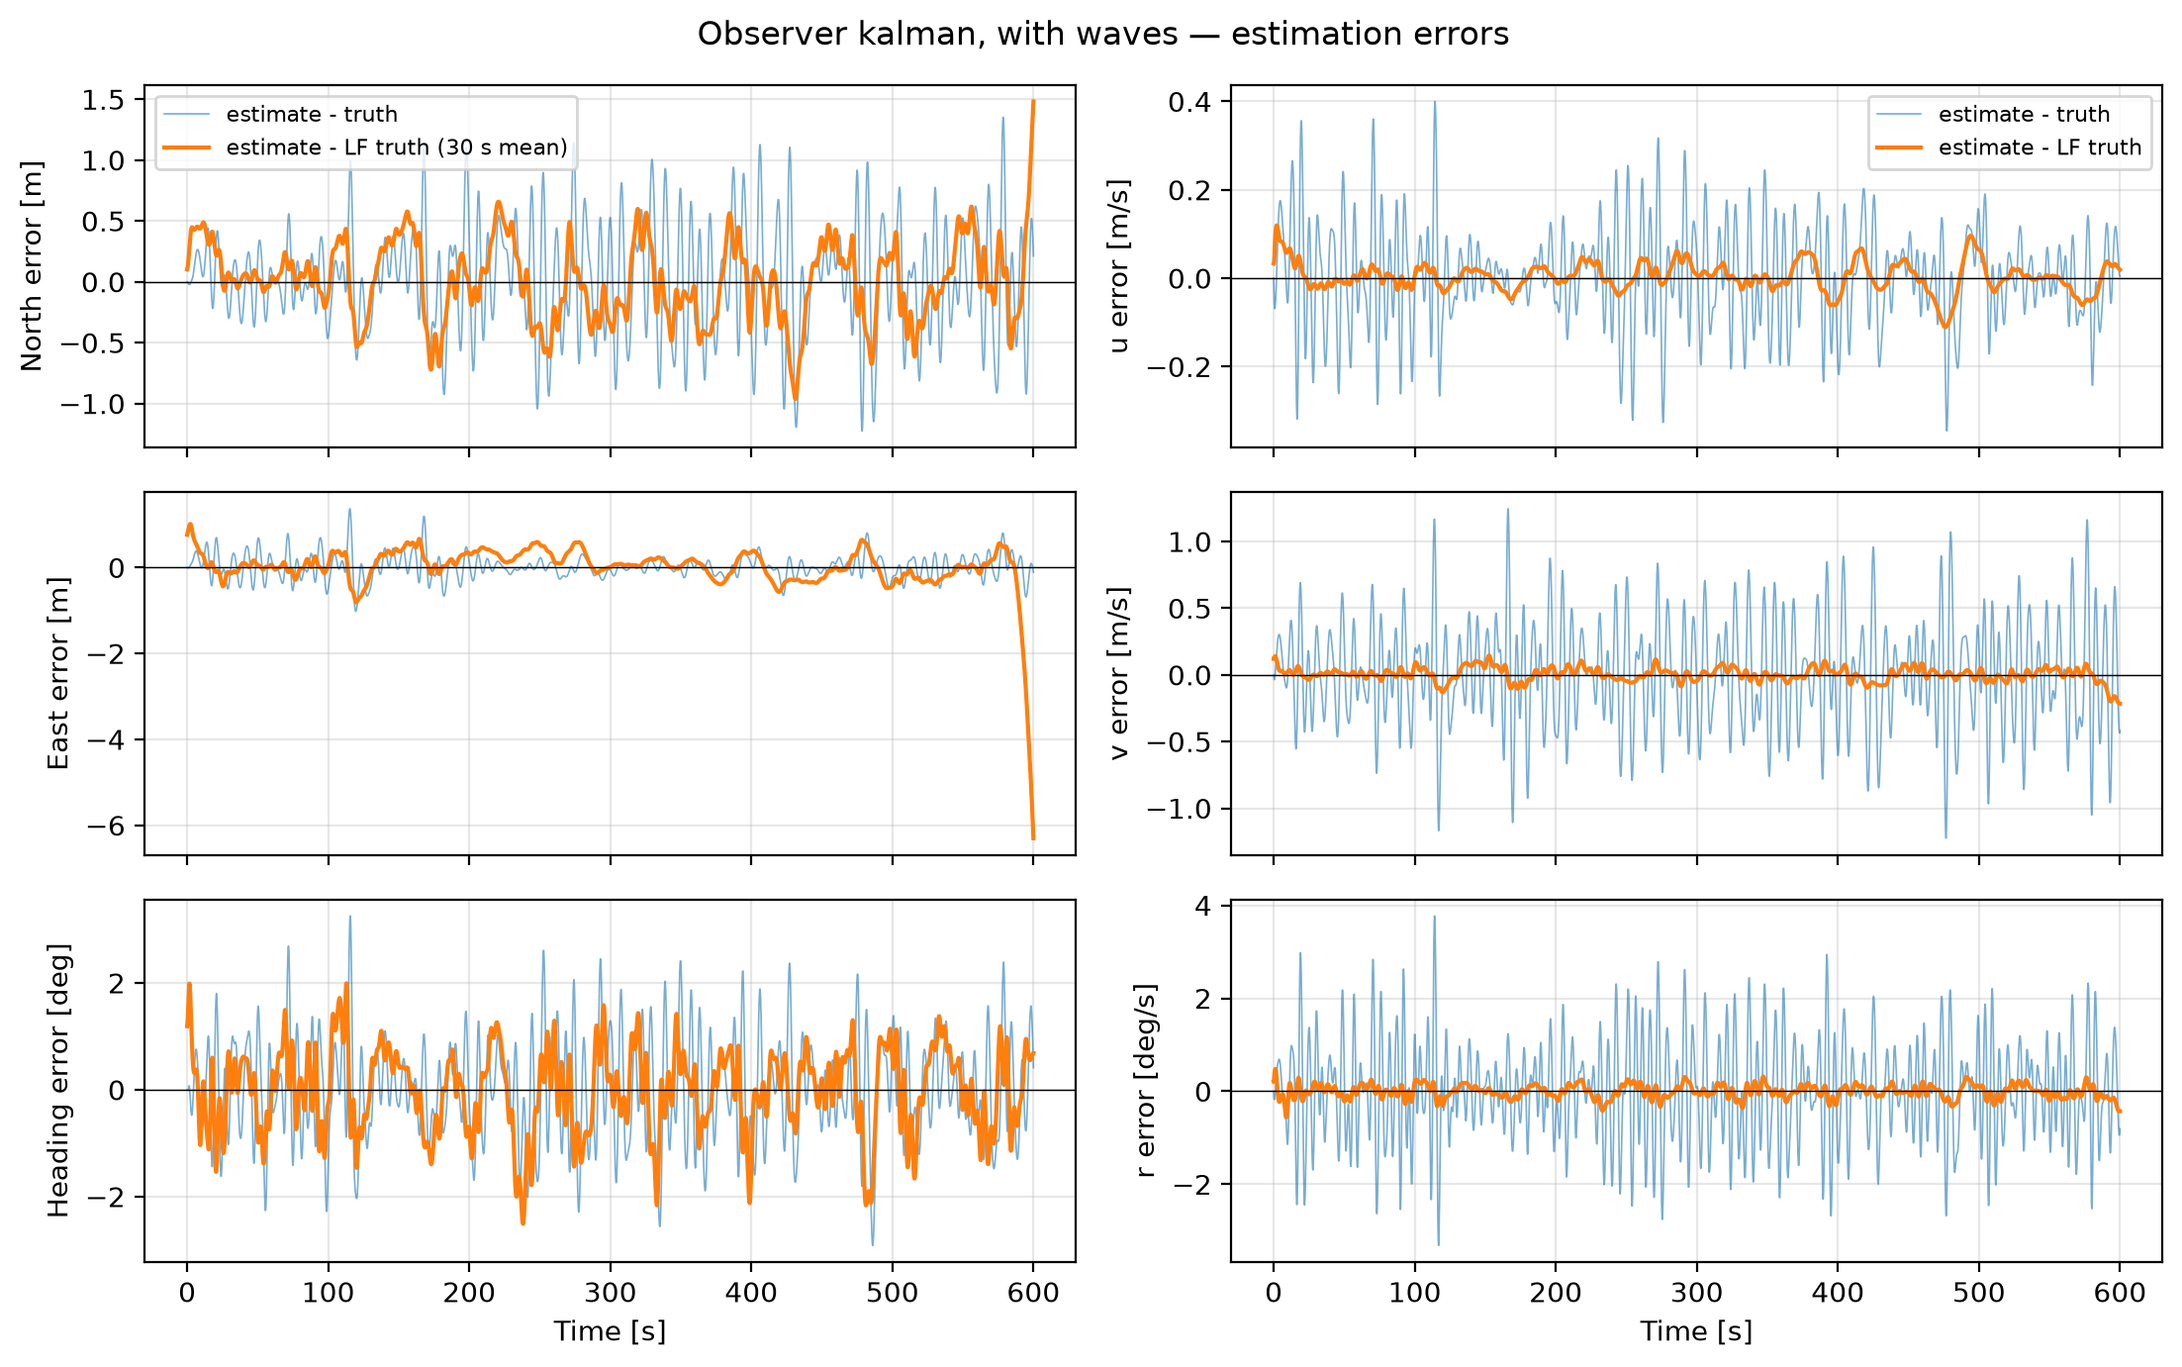
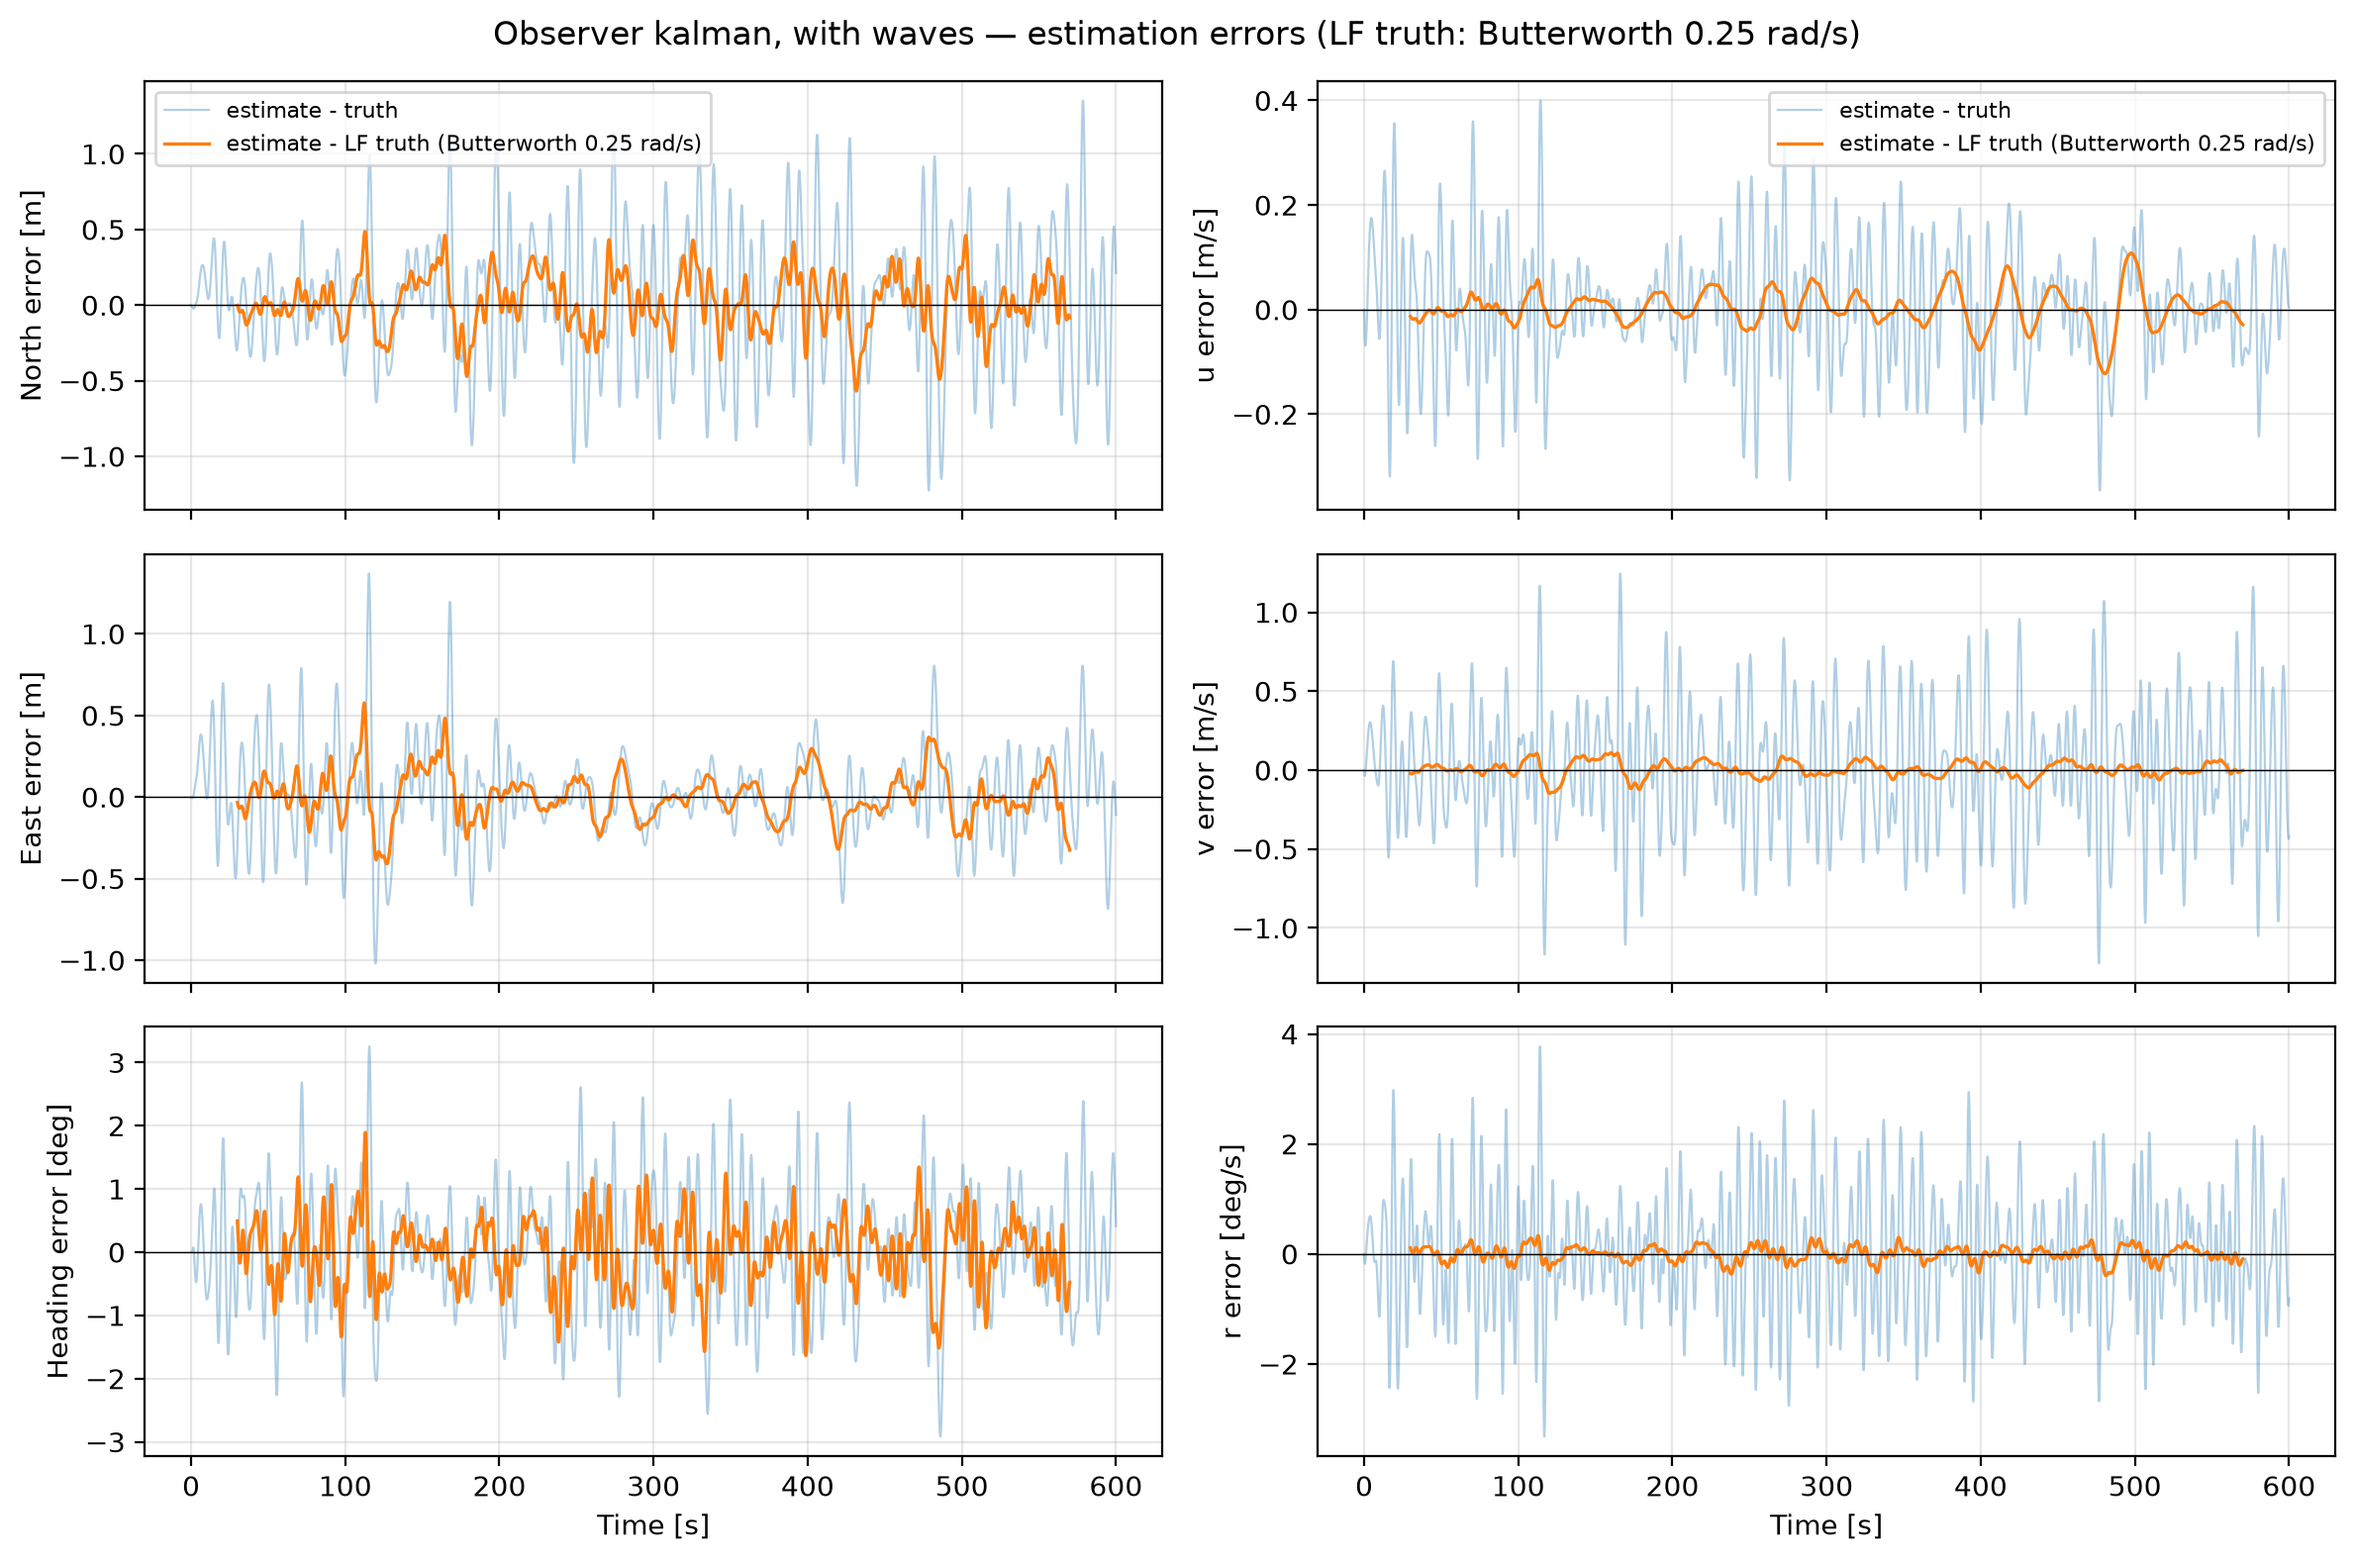
Butterworth LF reference for observer metrics and error plots in Sim 4 and 6; Sim 6 evaluated over same intervals as Sim 4

Changed region(s): [[0.0, 0.0, 1.0, 0.9964]]

diff --git a/run_case_part_2.py b/run_case_part_2.py
@@ -452,7 +452,9 @@ def sim4():
                                  observer_type=kind)
             logs = run(cfg, np.zeros(6), environment(**env_kw), controller=fixed)
             plot_observer(logs).suptitle(f"Observer {kind}, {label}")
-            plot_observer_error(logs).suptitle(f"Observer {kind}, {label} — estimation errors")
+            plot_observer_error_butter(
+                logs, f"Observer {kind}, {label} — estimation errors "
+                      f"(LF truth: Butterworth 0.25 rad/s)")
             out[(kind, label)] = logs
     # Convergence: start the estimate away from the truth (the engine resets it
     # ON the truth), then watch the error decay.  Quote the convergence time.
@@ -465,8 +467,10 @@ def sim4():
         current, wind, waves = environment()
         logs = sim.run(np.zeros(6), current=current, wind=wind, waves=waves)
         plot_observer(logs).suptitle(f"Observer {kind}, offset start — convergence")
-        plot_observer_error(logs).suptitle(
-            f"Observer {kind}, offset start — estimation errors")
+        # edge_start=0: the convergence from the initial offset must be visible
+        plot_observer_error_butter(
+            logs, f"Observer {kind}, offset start — estimation errors "
+                  f"(LF truth: Butterworth 0.25 rad/s)", edge_start=0.0)
         out[(kind, "offset start")] = logs
     # Stage (c) is the only part that needs the choice you make from the
     # evidence above, so it is skipped until you have made it.  Stages (a) and
@@ -485,8 +489,13 @@ def sim4():
         cfg = Part2SimConfig(dt=DT, T=600.0, use_observer=use_obs,
                              observer_type=selected_observer())
         logs = run(cfg, np.zeros(6), environment())
-        standard_plots(logs, setpoints=True, observer=use_obs)
+        standard_plots(logs, setpoints=True)
         plt.gcf().suptitle(f"Closed loop — {label}")
+        if use_obs:
+            plot_observer(logs).suptitle(f"Closed loop — {label}")
+            plot_observer_error_butter(
+                logs, f"Closed loop — {label}, estimation errors "
+                      f"(LF truth: Butterworth 0.25 rad/s)")
         out[("closed loop", label)] = logs
         plot_yaw_diagnostics(logs, f"Sim 4c — yaw controller, {label}")
     save_figures()
@@ -546,31 +555,51 @@ def _wrap(a):
     return np.arctan2(np.sin(a), np.cos(a))
 
 
-def print_sim6_metrics(label, logs, t0, t1):
-    """Station-keeping, estimation and actuator metrics over [t0, t1]."""
-    dt = logs.t[1] - logs.t[0]
-    m = (logs.t >= t0) & (logs.t <= t1)
-    # observer metrics: skip the last 15 s (edge effect of the 30 s mean)
-    mo = m & (logs.t <= logs.t[-1] - 15.0)
+def _butter(x, t, cutoff=0.25, band=None):
+    """4th-order zero-phase Butterworth filter, as in simulation4_metrics_direct.py."""
+    from scipy.signal import butter, sosfiltfilt
+    nyquist = np.pi / float(np.median(np.diff(t)))
+    if band is None:
+        sos = butter(4, cutoff / nyquist, btype="lowpass", output="sos")
+    else:
+        sos = butter(4, np.array(band) / nyquist, btype="bandpass", output="sos")
+    return sosfiltfilt(sos, x, axis=0)
+
+
+def print_sim6_metrics(label, logs, t0, t1, edge=30.0):
+    """Station-keeping, estimation and actuator metrics over [t0, t1].
+    LF truth: 0.25 rad/s Butterworth low-pass of the true motion, identical to
+    simulation4_metrics_direct.py. Estimation metrics exclude `edge` seconds
+    at each end of the window, as in Simulation 4 (0-600 s -> 30-570 s)."""
+    t = logs.t
+    dt = t[1] - t[0]
+    m = (t >= t0) & (t <= t1)
+    mo = m & (t >= t0 + edge) & (t <= t1 - edge)
 
     # station keeping (true state vs set-point)
     pos = np.hypot(logs.eta[m, 0] - logs.cmd[m, 0], logs.eta[m, 1] - logs.cmd[m, 1])
     psi = np.degrees(np.abs(_wrap(logs.eta[m, 5] - logs.cmd[m, 5])))
 
-    # low-frequency truth = 30 s moving average of the true pose
-    k = np.ones(int(round(30.0 / dt)))
-    k /= k.size
-    lf_N = np.convolve(logs.eta[:, 0], k, "same")
-    lf_E = np.convolve(logs.eta[:, 1], k, "same")
-    lf_P = _wrap(np.convolve(np.unwrap(logs.eta[:, 5]), k, "same"))
+    # LF truth (Butterworth) for pose and velocity
+    eta = logs.eta[:, [0, 1, 5]].copy()
+    eta[:, 2] = np.unwrap(eta[:, 2])
+    nu = logs.nu[:, [0, 1, 5]]
+    lf_eta = _butter(eta, t)
+    lf_nu = _butter(nu, t)
 
-    eN = logs.eta_est[mo, 0] - lf_N[mo]
-    eE = logs.eta_est[mo, 1] - lf_E[mo]
-    eP = np.degrees(_wrap(logs.eta_est[mo, 5] - lf_P[mo]))
-    wN = logs.eta_measured[mo, 0] - lf_N[mo]
-    wE = logs.eta_measured[mo, 1] - lf_E[mo]
-    wP = np.degrees(_wrap(logs.eta_measured[mo, 5] - lf_P[mo]))
-    e_nu = logs.nu_est[mo][:, [0, 1, 5]] - logs.nu[mo][:, [0, 1, 5]]
+    est = logs.eta_est[:, [0, 1, 5]].copy()
+    est[:, 2] = np.unwrap(est[:, 2])
+    meas = logs.eta_measured[:, [0, 1, 5]].copy()
+    meas[:, 2] = np.unwrap(meas[:, 2])
+
+    e_pose = est - lf_eta
+    e_pose[:, 2] = _wrap(e_pose[:, 2])
+    e_nu = logs.nu_est[:, [0, 1, 5]] - lf_nu
+    e_nu_tot = logs.nu_est[:, [0, 1, 5]] - nu
+
+    # wave-band attenuation of the estimate relative to the measurement [dB]
+    est_wf = _butter(est, t, band=(0.45, 1.2))
+    meas_wf = _butter(meas, t, band=(0.45, 1.2))
 
     # actuators
     u = logs.u[m]
@@ -579,18 +608,73 @@ def print_sim6_metrics(label, logs, t0, t1):
     res = (logs.tau_d - logs.tau_thr)[m][:, [0, 1, 5]]
 
     rms = lambda x: float(np.sqrt(np.mean(np.square(x))))
-    print(f"\n=== {label} ===")
+    att = [20 * np.log10(max(rms(est_wf[mo, i]), 1e-12) / max(rms(meas_wf[mo, i]), 1e-12))
+           for i in range(3)]
+    print(f"\n=== {label} (estimation metrics over t = {t[mo][0]:.0f}-{t[mo][-1]:.0f} s) ===")
     print(f"  position error   max {pos.max():5.2f} m   rms {rms(pos):5.2f} m")
     print(f"  heading error    max {psi.max():5.2f} deg rms {rms(psi):5.2f} deg")
-    print(f"  LF estimate err  rms N {rms(eN):.2f} m, E {rms(eE):.2f} m, psi {rms(eP):.2f} deg")
-    print(f"  WF ratio (est/meas std, lower = better filtering)  "
-          f"N {np.std(eN)/np.std(wN):.2f}, E {np.std(eE)/np.std(wE):.2f}, psi {np.std(eP)/np.std(wP):.2f}")
-    print(f"  velocity err rms u {rms(e_nu[:, 0]):.3f} m/s, v {rms(e_nu[:, 1]):.3f} m/s, "
-          f"r {np.degrees(rms(e_nu[:, 2])):.3f} deg/s")
+    print(f"  LF estimate err  rms N {rms(e_pose[mo, 0]):.3f} m, E {rms(e_pose[mo, 1]):.3f} m, "
+          f"psi {np.degrees(rms(e_pose[mo, 2])):.3f} deg")
+    print(f"  velocity err rms (vs LF truth)    u {rms(e_nu[mo, 0]):.3f} m/s, "
+          f"v {rms(e_nu[mo, 1]):.3f} m/s, r {np.degrees(rms(e_nu[mo, 2])):.3f} deg/s")
+    print(f"  velocity err rms (vs total truth) u {rms(e_nu_tot[mo, 0]):.3f} m/s, "
+          f"v {rms(e_nu_tot[mo, 1]):.3f} m/s, r {np.degrees(rms(e_nu_tot[mo, 2])):.3f} deg/s")
+    print(f"  wave attenuation [dB] N {att[0]:.1f}, E {att[1]:.1f}, psi {att[2]:.1f}")
     print(f"  thrust utilisation mean {UT.mean():5.1f} %   max {UT.max():5.1f} %")
     print(f"  thrust rate rms [kN/s]  T {rms(du[:, 0])/1e3:.2f}, A1 {rms(du[:, 1])/1e3:.2f}, A2 {rms(du[:, 2])/1e3:.2f}")
     print(f"  residual rms     Fx {rms(res[:, 0])/1e3:.2f} kN, Fy {rms(res[:, 1])/1e3:.2f} kN, "
           f"Mz {rms(res[:, 2])/1e3:.2f} kNm")
+
+def plot_observer_error_butter(logs, title, edge=30.0, edge_start=None):
+    """Estimation errors against the total truth and against the LF truth
+    (4th-order zero-phase Butterworth, 0.25 rad/s), the same LF reference as
+    the tabulated metrics. The LF error is shown without the last `edge`
+    seconds and, unless `edge_start` is given, without the first `edge`
+    seconds, where the filter has edge effects."""
+    t = logs.t
+    eta = logs.eta[:, [0, 1, 5]].copy()
+    eta[:, 2] = np.unwrap(eta[:, 2])
+    est = logs.eta_est[:, [0, 1, 5]].copy()
+    est[:, 2] = np.unwrap(est[:, 2])
+    nu = logs.nu[:, [0, 1, 5]]
+    nu_est = logs.nu_est[:, [0, 1, 5]]
+    lf_eta = _butter(eta, t)
+    lf_nu = _butter(nu, t)
+
+    e_tot = est - eta
+    e_tot[:, 2] = _wrap(e_tot[:, 2])
+    e_lf = est - lf_eta
+    e_lf[:, 2] = _wrap(e_lf[:, 2])
+    v_tot = nu_est - nu
+    v_lf = nu_est - lf_nu
+    t_first = edge if edge_start is None else edge_start
+    m = (t >= t_first) & (t <= t[-1] - edge)
+
+    fig, ax = plt.subplots(3, 2, figsize=(12, 8), sharex=True)
+    pos_labels = ["North error [m]", "East error [m]", "Heading error [deg]"]
+    vel_labels = ["u error [m/s]", "v error [m/s]", "r error [deg/s]"]
+    for i in range(3):
+        sc = np.degrees if i == 2 else (lambda x: x)
+        ax[i, 0].plot(t, sc(e_tot[:, i]), color="tab:blue", alpha=0.35, lw=0.8,
+                      label="estimate - truth")
+        ax[i, 0].plot(t[m], sc(e_lf[m, i]), color="tab:orange", lw=1.2,
+                      label="estimate - LF truth (Butterworth 0.25 rad/s)")
+        ax[i, 0].set_ylabel(pos_labels[i])
+        ax[i, 1].plot(t, sc(v_tot[:, i]), color="tab:blue", alpha=0.35, lw=0.8,
+                      label="estimate - truth")
+        ax[i, 1].plot(t[m], sc(v_lf[m, i]), color="tab:orange", lw=1.2,
+                      label="estimate - LF truth (Butterworth 0.25 rad/s)")
+        ax[i, 1].set_ylabel(vel_labels[i])
+    for a in ax.flat:
+        a.axhline(0.0, color="k", lw=0.5)
+        a.grid(alpha=0.3)
+    ax[0, 0].legend(fontsize=8)
+    ax[0, 1].legend(fontsize=8)
+    ax[2, 0].set_xlabel("Time [s]")
+    ax[2, 1].set_xlabel("Time [s]")
+    fig.suptitle(title)
+    fig.tight_layout()
+    return fig
 
 
 def sim6():
@@ -598,16 +682,21 @@ def sim6():
     SELECTED_OBSERVER in the loop."""
     cfg = Part2SimConfig(dt=DT, T=1000.0, use_observer=True, observer_type=selected_observer())
     logs = run(cfg, np.zeros(6), environment(hs=ROBUST_HS, tp=ROBUST_TP))
-    standard_plots(logs, setpoints=True, observer=True)
+    standard_plots(logs, setpoints=True)
+    plot_observer(logs).suptitle("Observer comparison: nonlinear_passive (heavy sea)")
+    plot_observer_error_butter(
+        logs, "Observer estimation errors: nonlinear_passive, heavy sea "
+              "(LF truth: Butterworth 0.25 rad/s)")
     plot_yaw_diagnostics(logs, "Sim 6 — yaw controller (heavy sea, NPO)")
 
     # Design-sea reference with the same observer and controller (= Sim 4c),
-    # evaluated over a window of the same length (500 s) as the heavy-sea run
+    # evaluated over the same intervals as Simulation 4: station keeping over
+    # 0-600 s, estimation over 30-570 s. Only the sea state differs.
     cfg_ref = Part2SimConfig(dt=DT, T=600.0, use_observer=True, observer_type=selected_observer())
     logs_ref = run(cfg_ref, np.zeros(6), environment())
 
-    print_sim6_metrics("Design sea  Hs 1.5 m, Tp 8 s   (t = 100-600 s)", logs_ref, 100.0, 600.0)
-    print_sim6_metrics("Heavy sea   Hs 2.5 m, Tp 10 s  (t = 500-1000 s)", logs, 500.0, 1000.0)
+    print_sim6_metrics("Design sea  Hs 1.5 m, Tp 8 s   (t = 0-600 s)", logs_ref, 0.0, 600.0)
+    print_sim6_metrics("Heavy sea   Hs 2.5 m, Tp 10 s  (t = 0-600 s)", logs, 0.0, 600.0)
     print_sim6_metrics("Heavy sea, full stress run     (t = 0-1000 s)", logs, 0.0, 1000.0)
 
     #lagre bildene direkte
